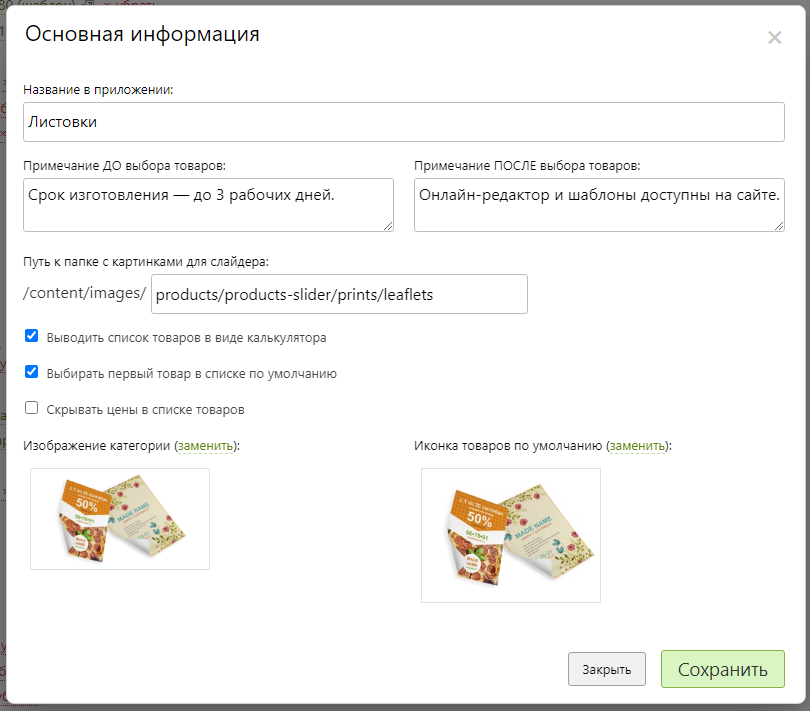
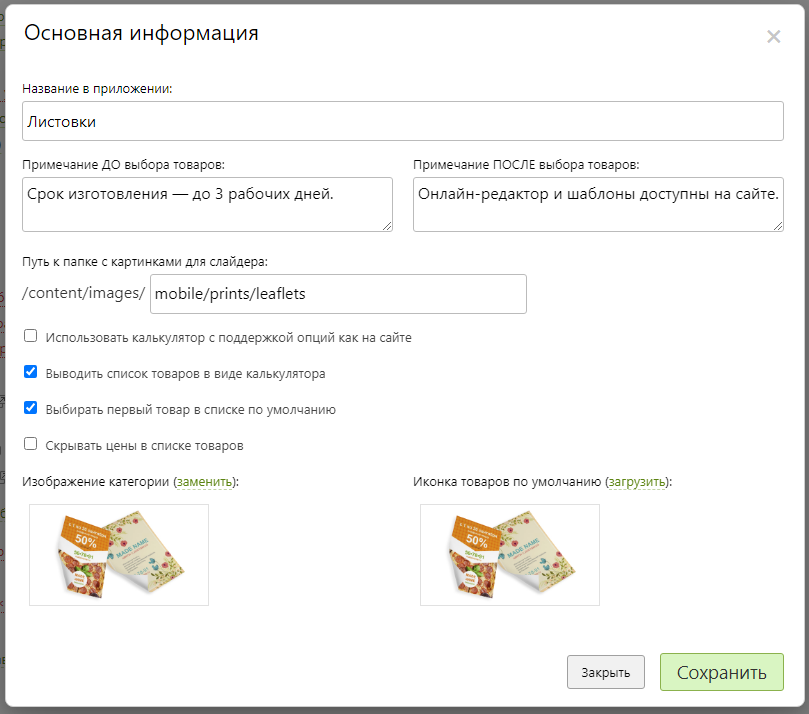
+ мобильное приложение

diff --git a/docs/app/notifications.md b/docs/app/notifications.md
@@ -1,0 +1,24 @@
+# Уведомления
+* В данном разделе задаются настройки уведомлений для приложения.
+
+## Индивидуальные шаблоны уведомлений
+* В разделе можно создать индивидуальный шаблон уведомления, содержащий:
+    + Название в панели управления.
+    + Заголовок уведомления.
+    + Список сайтов для уведомления.
+    + Содержимое уведомления.
+    + Информацию о последней отправке и дате создания.
+    + Кнопку включения или отключения отправки уведомления.
+* ![](../_media/app/notification_01.png)
+* Так же в разделе можно создать / выбрать / удалить планировщик для отправки индивидуального уведомления.
+![](../_media/app/notification_02.png)
+* Индивидуальные уведомления возможно принудительно отправлять, дублировать или удалять.
+
+## Стандартные шаблоны уведомлений
+* В данном разделе содержатся стандартные шаблоны уведомлений.
+* Для каждого шаблона возможно задать:
+    + Заголовок уведомления.
+    + Список сайтов для уведомления.
+    + Содержимое уведомления.
+    + Включить или отключить отправку уведомления.
+* ![](../_media/app/notification_03.png)

diff --git a/docs/app/settings.md b/docs/app/settings.md
@@ -16,8 +16,9 @@
 
 ## Экран заказов
 * __Отображать заказы со всех сайтов__ - отображать в профиле клиента только заказы текущего выбранного сайта.
-* __Отображать кнопку "Повторить заказ"__ - отображать на экране списка заказов кнопку "повторить заказ".
+* __Отображать кнопку "Повторить заказ"__ - отображать на экране списка заказов кнопку "Повторить заказ".
 * __Отображать дополнительный номер заказа вместо основного__ - выводить на экране списка заказов дополнительный номер вместо основного.
+* __Использовать свой файл стилей для калькулятора__" - использовать уникальные стили из файла `/content/css/csscalc.css `.
 ![](../_media/app/app03.png)
 
 ## Экран магазина

diff --git a/docs/app/shop.md b/docs/app/shop.md
@@ -15,6 +15,7 @@
     + Задавать название, выводящееся на экране списка категорий.
     + Создавать примечания До и После списка товаров на экране категории.
     + Выбирать изображение категории и товара по умолчанию.
+    + Настроить использование калькулятора с поддержной опций.
     + Выводить список товаров в виде калькулятора.
     + По умолчанию выбирать первый товар в списке.
     + Скрывать цены в списке товаров.

diff --git a/docs/_sidebar.md b/docs/_sidebar.md
@@ -92,6 +92,7 @@
 	- [Дизайн](/app/design.md)
 	- [Локализация](/app/localization.md)
 	- [Сайты](/app/shop.md)
+	- [Уведомления](/app/notifications.md)
 
 - Профиль
 	- [Информация](/profile/info.md)
